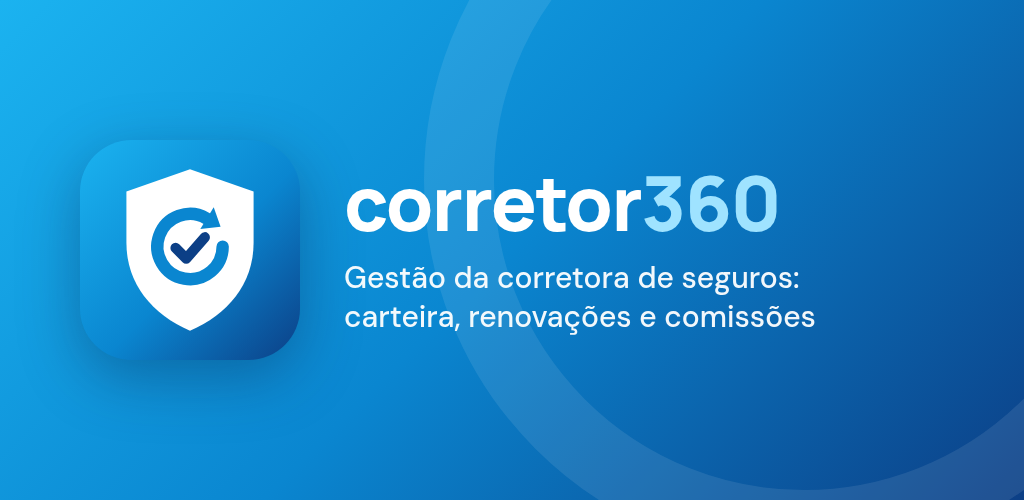
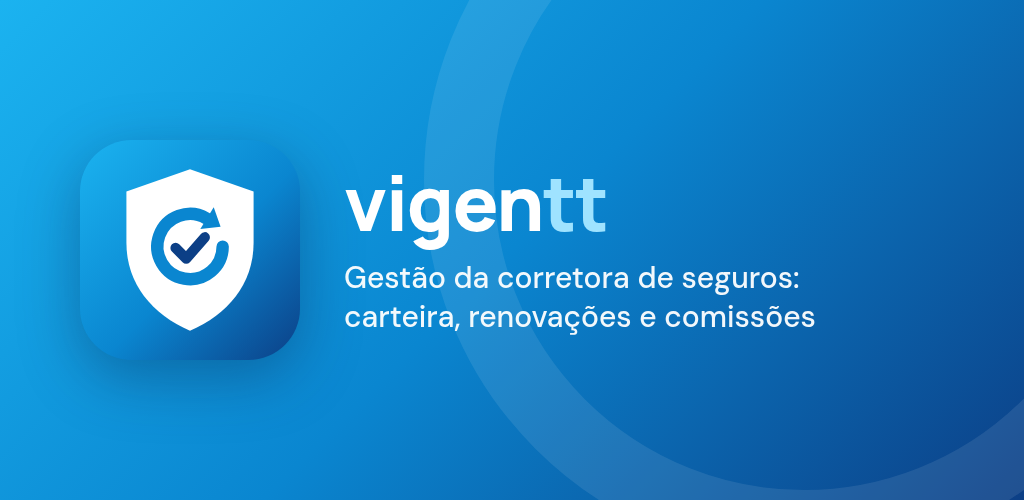
Novo nome: Vigentt (Corretor360 já pertence a outro dono)
- Nome e marca "vigentt" no app, página inicial, páginas legais, plano,
  manifesto, artes das lojas e splash.
- App das lojas: br.com.vigentt.app; Codemagic com grupo "vigentt",
  VIGENTT_URL e keystore "vigentt_keystore".

Claude-Session: https://claude.ai/code/session_01NA8xQYyXiutCBCBDXsNLyN

Changed region(s): [[0.3125, 0.33, 0.7812, 0.51]]

diff --git a/mobile/www/offline.html b/mobile/www/offline.html
@@ -3,7 +3,7 @@
 <head>
 <meta charset="utf-8">
 <meta name="viewport" content="width=device-width, initial-scale=1, viewport-fit=cover">
-<title>Corretor360 — sem conexão</title>
+<title>Vigentt — sem conexão</title>
 <style>
   html,body{margin:0;height:100%;font-family:system-ui,-apple-system,"Segoe UI",Roboto,sans-serif}
   body{display:flex;align-items:center;justify-content:center;background:linear-gradient(160deg,#1bb3f0,#0a86d0 55%,#0c3f86);color:#fff;text-align:center;padding:24px;box-sizing:border-box}
@@ -17,7 +17,7 @@
   <div class="box">
     <svg width="88" height="88" viewBox="0 0 64 64" aria-hidden="true"><rect width="64" height="64" rx="15" fill="#fff" fill-opacity=".15"/><path d="M32 8.5 50.5 15v14.8c0 12.2-7.6 20.9-18.5 25.7C21.1 50.7 13.5 42 13.5 29.8V15Z" fill="#fff"/><path d="M41.5 31a9.5 9.5 0 1 1-4.75-8.23" fill="none" stroke="#0a86d0" stroke-width="3.6" stroke-linecap="round"/><path d="M40.9 25.2 35 25.9l3.9-6.3Z" fill="#0a86d0"/><path d="m27.8 31.4 3.1 3.1 5.4-6.2" fill="none" stroke="#0c3f86" stroke-width="3" stroke-linecap="round" stroke-linejoin="round"/></svg>
     <h1>Sem conexão</h1>
-    <p>O Corretor360 precisa de internet para mostrar a carteira atualizada. Verifique o Wi-Fi ou os dados móveis.</p>
+    <p>O Vigentt precisa de internet para mostrar a carteira atualizada. Verifique o Wi-Fi ou os dados móveis.</p>
     <button onclick="history.length > 1 ? history.back() : location.reload()">Tentar de novo</button>
   </div>
 </body>

diff --git a/mobile/capacitor.config.ts b/mobile/capacitor.config.ts
@@ -2,13 +2,13 @@ import type { CapacitorConfig } from "@capacitor/cli";
 
 // Endereço publicado do app no Lovable (Publish). O aplicativo das lojas abre este endereço,
 // então toda atualização publicada no Lovable chega aos celulares sem novo envio às lojas.
-// Troque pelo seu domínio (ex.: https://app.corretor360.com.br) ou defina CORRETOR360_URL no Codemagic.
-const url = process.env.CORRETOR360_URL ?? "https://SEU-PROJETO.lovable.app";
+// Troque pelo seu domínio (ex.: https://app.vigentt.com.br) ou defina VIGENTT_URL no Codemagic.
+const url = process.env.VIGENTT_URL ?? "https://SEU-PROJETO.lovable.app";
 
 const config: CapacitorConfig = {
   // Identificador único nas lojas: não pode mudar depois da primeira publicação.
-  appId: process.env.CORRETOR360_APP_ID ?? "br.com.corretor360.app",
-  appName: "Corretor360",
+  appId: process.env.VIGENTT_APP_ID ?? "br.com.vigentt.app",
+  appName: "Vigentt",
   webDir: "www",
   server: {
     url,
@@ -23,7 +23,7 @@ const config: CapacitorConfig = {
     backgroundColor: "#f2f8fc",
     // O app web já trata as áreas do entalhe/barra (viewport-fit=cover + env(safe-area-inset-*)).
     contentInset: "never",
-    scheme: "Corretor360",
+    scheme: "Vigentt",
   },
   plugins: {
     SplashScreen: {

diff --git a/src/components/brand/logo.tsx b/src/components/brand/logo.tsx
@@ -1,4 +1,4 @@
-// Marca do Corretor360: escudo (seguro) com a seta de renovação e o "ok" da apólice renovada.
+// Marca do Vigentt: escudo (seguro) com a seta de renovação e o "ok" da apólice renovada.
 // A mesma arte está em branding/marca.svg (ícones do app e das lojas).
 import { useId } from "react";
 import { cn } from "@/lib/utils";
@@ -18,7 +18,7 @@ export function BrandMark({
       height={size}
       className={cn("shrink-0", className)}
       role="img"
-      aria-label="Corretor360"
+      aria-label="Vigentt"
     >
       <defs>
         <linearGradient id={`${id}-f`} x1="0" y1="0" x2="1" y2="1">
@@ -52,7 +52,7 @@ export function BrandMark({
   );
 }
 
-/** Nome "corretor360" com o 360 em celeste (claro sobre fundo escuro). */
+/** Nome "vigentt" com o "tt" em celeste (claro sobre fundo escuro). */
 export function Wordmark({
   onDark = false,
   className,
@@ -62,8 +62,8 @@ export function Wordmark({
 }) {
   return (
     <span className={cn("font-display font-bold tracking-tight", className)}>
-      corretor
-      <span className={onDark ? "text-celeste-bright" : "text-celeste"}>360</span>
+      vigen
+      <span className={onDark ? "text-celeste-bright" : "text-celeste"}>tt</span>
     </span>
   );
 }

diff --git a/src/lib/plano.ts b/src/lib/plano.ts
@@ -1,7 +1,7 @@
-// Plano de assinatura do Corretor360 (vendido pelo site). Altere o valor aqui: ele aparece na
+// Plano de assinatura do Vigentt (vendido pelo site). Altere o valor aqui: ele aparece na
 // página inicial, na tela de assinatura e é o valor cobrado pelo Mercado Pago em novas assinaturas.
 export const PLANO = {
-  nome: "Corretor360 Completo",
+  nome: "Vigentt Completo",
   /** Valor mensal em reais. */
   valor: 39.9,
   testeDias: 14,

diff --git a/src/components/auth/auth-layout.tsx b/src/components/auth/auth-layout.tsx
@@ -39,7 +39,7 @@ export function AuthLayout({ children }: { children: ReactNode }) {
           </p>
         </div>
         <p className="relative text-sm opacity-70">
-          Corretor360 · seus dados isolados e protegidos por corretora
+          Vigentt · seus dados isolados e protegidos por corretora
         </p>
       </div>
       <div className="flex items-center justify-center px-6 pb-16 pt-[calc(4rem+env(safe-area-inset-top))]">

diff --git a/src/lib/legal.ts b/src/lib/legal.ts
@@ -1,7 +1,7 @@
 // Dados de quem publica o app nas lojas. PREENCHA antes de enviar para a Google Play / App Store:
 // as páginas de privacidade, termos e exclusão de conta usam estes valores.
 export const LEGAL = {
-  produto: "Corretor360",
+  produto: "Vigentt",
   /** Razão social ou nome de quem vende o app (desenvolvedor). */
   responsavel: "[Nome ou razão social do desenvolvedor]",
   /** CPF ou CNPJ do responsável. */

diff --git a/src/routes/index.tsx b/src/routes/index.tsx
@@ -1,7 +1,7 @@
 import { createFileRoute } from "@tanstack/react-router";
 import { LandingPage } from "@/features/landing/landing-page";
 
-const titulo = "Corretor360 — Gestão para corretoras de seguros";
+const titulo = "Vigentt — Gestão para corretoras de seguros";
 const descricao =
   "Clientes, apólices, renovações, parcelas e comissões da sua corretora num só lugar. Teste grátis.";
 

diff --git a/src/routes/excluir-conta.tsx b/src/routes/excluir-conta.tsx
@@ -4,7 +4,7 @@ import { LEGAL } from "@/lib/legal";
 import { pageHead } from "@/lib/seo";
 
 export const Route = createFileRoute("/excluir-conta")({
-  head: () => pageHead("Excluir conta", "Como excluir sua conta do Corretor360 e os seus dados."),
+  head: () => pageHead("Excluir conta", "Como excluir sua conta do Vigentt e os seus dados."),
   component: ExcluirConta,
 });
 

diff --git a/src/routes/privacidade.tsx b/src/routes/privacidade.tsx
@@ -4,7 +4,7 @@ import { LEGAL } from "@/lib/legal";
 import { pageHead } from "@/lib/seo";
 
 export const Route = createFileRoute("/privacidade")({
-  head: () => pageHead("Política de privacidade", "Como o Corretor360 trata os dados pessoais."),
+  head: () => pageHead("Política de privacidade", "Como o Vigentt trata os dados pessoais."),
   component: Privacidade,
 });
 

diff --git a/src/features/assinatura/assinatura-section.tsx b/src/features/assinatura/assinatura-section.tsx
@@ -164,7 +164,7 @@ export function AssinaturaSection() {
 
       {nativo && a.status !== "isenta" && (
         <p className="text-sm text-muted-foreground">
-          A assinatura é gerenciada pelo site do Corretor360, no navegador do computador.
+          A assinatura é gerenciada pelo site do Vigentt, no navegador do computador.
         </p>
       )}
 

diff --git a/src/routes/termos.tsx b/src/routes/termos.tsx
@@ -4,7 +4,7 @@ import { LEGAL } from "@/lib/legal";
 import { pageHead } from "@/lib/seo";
 
 export const Route = createFileRoute("/termos")({
-  head: () => pageHead("Termos de uso", "Condições de uso do Corretor360."),
+  head: () => pageHead("Termos de uso", "Condições de uso do Vigentt."),
   component: Termos,
 });
 

diff --git a/mobile/www/index.html b/mobile/www/index.html
@@ -3,7 +3,7 @@
 <head>
 <meta charset="utf-8">
 <meta name="viewport" content="width=device-width, initial-scale=1, viewport-fit=cover">
-<title>Corretor360</title>
+<title>Vigentt</title>
 <meta http-equiv="refresh" content="0; url=offline.html">
 </head>
 <body></body>
